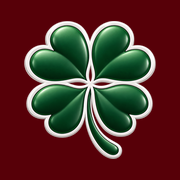
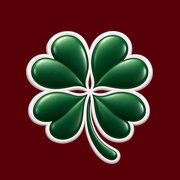
Add files via upload

diff --git a/index.html b/index.html
@@ -26,11 +26,11 @@
 
   <!-- The little icon on the browser tab (your clover). Keep favicon.png
        in the same folder as this file. -->
-  <link rel="icon" href="favicon.png?v=3" type="image/png">
+  <link rel="icon" href="favicon.png?v=4" type="image/png">
 
   <!-- The icon (and name) used when someone taps Share > Add to Home Screen
        on an iPhone. Keep apple-touch-icon.png next to this file. -->
-  <link rel="apple-touch-icon" href="apple-touch-icon.png?v=1">
+  <link rel="apple-touch-icon" href="apple-touch-icon.png?v=2">
   <meta name="apple-mobile-web-app-title" content="gotluckylol">
 
   <!-- Loads the "Anton" font from Google (tall, heavy, condensed capitals).
